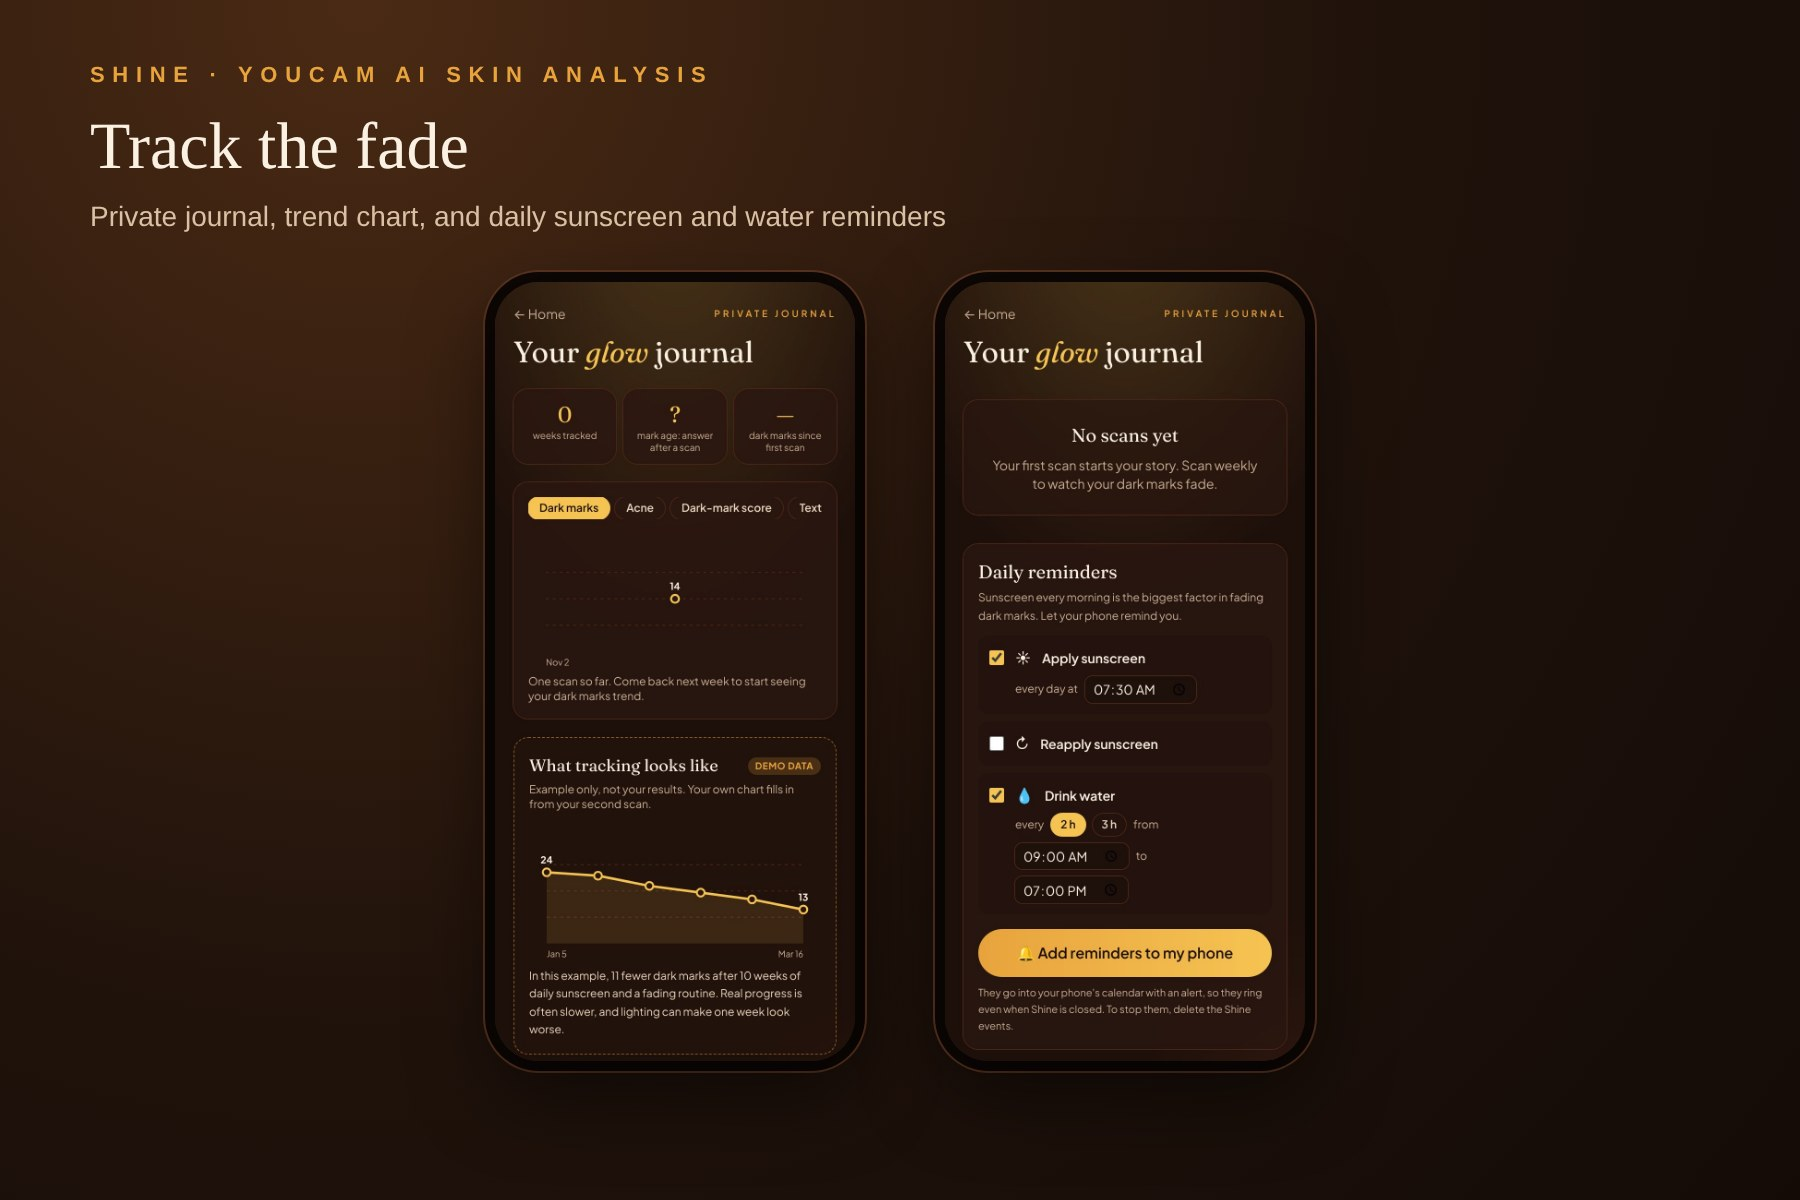
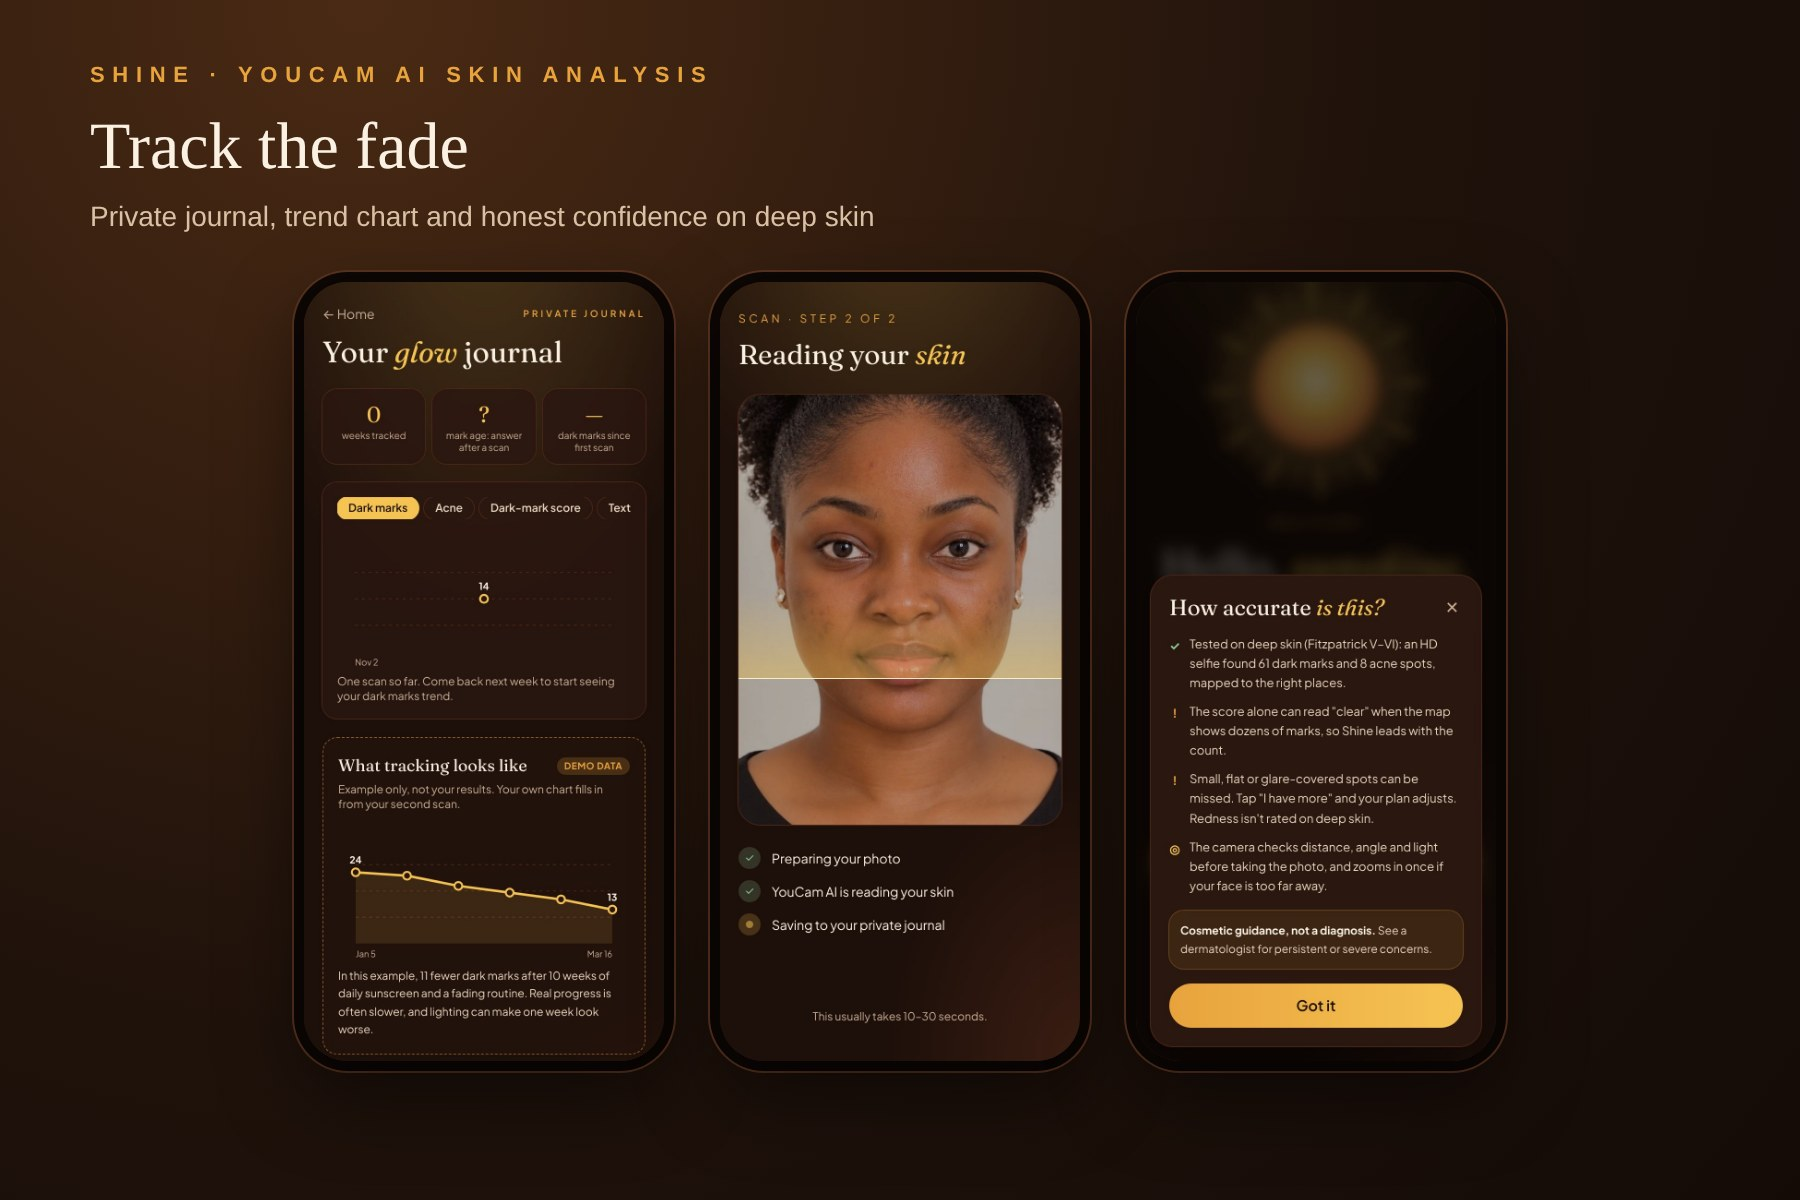
Revert "Gallery: app name on accuracy card, two-screen intro without face mesh, reminders slide"
This reverts commit 02082bab779b596d341a9f25e5804fda07c4fa41.

Changed region(s): [[0.1556, 0.2158, 0.84, 0.8942], [0.2489, 0.1542, 0.5289, 0.185]]

diff --git a/src/components/Accuracy.tsx b/src/components/Accuracy.tsx
@@ -31,8 +31,7 @@ export function Accuracy({ onClose }: { onClose: () => void }) {
         onClick={(e) => e.stopPropagation()}
         className="rise max-h-[80dvh] w-full max-w-sm overflow-y-auto rounded-3xl bg-cocoa p-5 shadow-2xl ring-1 ring-mahogany"
       >
-        <p className="text-[10px] font-semibold uppercase tracking-[0.3em] text-honey">Shine · Honest numbers</p>
-        <div className="mt-1 flex items-start justify-between gap-3">
+        <div className="flex items-start justify-between gap-3">
           <h2 id="accuracy-title" className="font-display text-2xl leading-tight">
             How accurate <em className="text-sun">is this?</em>
           </h2>
